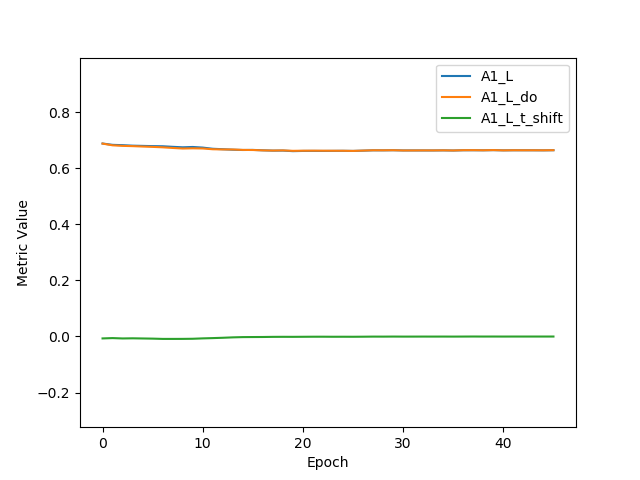
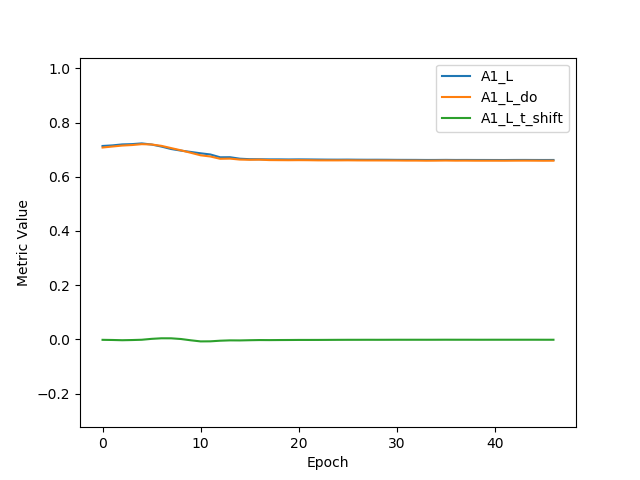
new synth data with non-trivial counterfactuals; different z for each a

diff --git a/src/dataproc/SynthDatasetCreator.py b/src/dataproc/SynthDatasetCreator.py
@@ -1,7 +1,7 @@
 
 import numpy as np
 from scipy.stats import norm
-from dataproc.utils import sigmoid, save_tensors, generate_normal_data
+from dataproc.utils import sigmoid, save_tensors, generate_normal_data, generate_bernoulli_data
 from codebase.utils import switch
 
 
@@ -23,6 +23,13 @@ class SynthDatasetCreator(object):
         self.outcome_scale = outcome_scale
 
     def generate_dataset(self):
+        save_dict_f, save_dict_cf = self.generate_factual_and_counterfactual_data()
+        save_dict = {}
+        for k in save_dict_f: save_dict[k] = save_dict_f[k]
+        for k in save_dict_cf: save_dict['{}_unb'.format(k)] = save_dict_cf[k]
+        return save_dict
+
+    def generate_factual_and_counterfactual_data(self):
         #make dataset 0
         x0, a0, z0 = self.generate_factual_data(self.mu0, self.sd0, self.n0, self.xdim, 0)    
         x0_cf, a0_cf, z0_cf = self.generate_counterfactual_data(x0, a0, z0, self.mu0, self.sd0, self.mu1, self.sd1)
@@ -36,10 +43,7 @@ class SynthDatasetCreator(object):
         #save data
         save_dict_f = {k: np.concatenate([dat0[k], dat1[k]], axis=0) for k in dat0}
         save_dict_cf = {k: np.concatenate([dat0_cf[k], dat1_cf[k]], axis=0) for k in dat0_cf}
-        save_dict = {}
-        for k in save_dict_f: save_dict[k] = save_dict_f[k]
-        for k in save_dict_cf: save_dict['{}_unb'.format(k)] = save_dict_cf[k]
-        return save_dict
+        return save_dict_f, save_dict_cf
 
     def generate_factual_data(self, mu, sd, n, xdim, a_value):
         pass
@@ -145,7 +149,7 @@ class ConfoundedTreatmentBasicSynthDatasetCreator(BasicSynthDatasetCreator):
         return t_obs, t_obs_cf, t_obs_prob
 
 
-class HiddenOffsetOutcomeSynthDatasetCreator(BasicSynthDatasetCreator):
+class ConfoundedSynthDatasetCreator(ConfoundedTreatmentBasicSynthDatasetCreator):
 
     def __init__(self, seed, offset, **kwargs): 
         self.offset = offset
@@ -168,4 +172,89 @@ class HiddenOffsetOutcomeSynthDatasetCreator(BasicSynthDatasetCreator):
         y0_prob = switch(a0_y0_prob, a1_y0_prob, a)
         y1_prob = switch(a0_y1_prob, a1_y1_prob, a)
         return y0, y1, y0_prob, y1_prob 
+
+class HiddenConfounderSynthDatasetCreator(BasicSynthDatasetCreator):
+
+    def __init__(self, seed, zdim, zp, **kwargs): 
+        self.zdim = zdim
+        self.zp = zp
+        super().__init__(seed, **kwargs)
+
+    def generate_factual_data(self, mu, sd, n, xdim, a_value):
+        a = np.full((n, 1), a_value)
+        z = generate_bernoulli_data(self.zp, n, self.zdim)
+        x = generate_normal_data(z + mu, sd, n, self.xdim)
+        print(x.shape, a.shape, z.shape)
+        return x, a, z
+
+    def generate_counterfactual_data(self, x, a, z, mu, sd, mu_cf, sd_cf):
+        x_base = (x - mu - z) / sd
+        x_cf = (x_base * sd_cf) + mu_cf + z
+        a_cf = 1 - a
+        z_cf = z
+        return x_cf, a_cf, z_cf
+
+    def choose_observed_treatment(self, x, a, z):
+        # A = 0 treatment
+        a0_t_obs_prob = np.expand_dims(sigmoid(np.mean(x + z, axis=1) / self.outcome_scale), 1) 
+        a0_t_obs = np.random.binomial(1, a0_t_obs_prob)
+        a0_t_obs_cf = 1 - a0_t_obs 
+        # A = 1 treatment
+        a1_t_obs_prob = np.expand_dims(sigmoid(np.mean(x - z, axis=1) / self.outcome_scale), 1) 
+        a1_t_obs = np.random.binomial(1, a1_t_obs_prob)
+        a1_t_obs_cf = 1 - a1_t_obs 
+        #combine outcomes by A
+        t_obs = switch(a0_t_obs, a1_t_obs, a)
+        t_obs_prob = switch(a0_t_obs_prob, a1_t_obs_prob, a)
+        t_obs_cf = switch(a0_t_obs_cf, a1_t_obs_cf, a)
+        return t_obs, t_obs_cf, t_obs_prob
+
+    def generate_outcomes(self, x, a, z):
+        #A = 0 outcomes
+        a0_y0_prob = np.expand_dims(sigmoid(np.mean(x + z, axis=1) / self.outcome_scale), 1)
+        a0_y1_prob = np.expand_dims(sigmoid(-np.mean(x - z, axis=1) / self.outcome_scale), 1)
+        a0_y0 = np.random.binomial(1, a0_y0_prob)
+        a0_y1 = np.random.binomial(1, a0_y1_prob)
+        #A = 1 outcomes
+        a1_y0_prob = np.expand_dims(sigmoid(np.mean(x - z, axis=1) / self.outcome_scale), 1)
+        a1_y1_prob = np.expand_dims(sigmoid(-np.mean(x + z, axis=1) / self.outcome_scale), 1)
+        a1_y0 = np.random.binomial(1, a1_y0_prob)
+        a1_y1 = np.random.binomial(1, a1_y1_prob)
+        #combine outcomes by A
+        y0 = switch(a0_y0, a1_y0, a)
+        y1 = switch(a0_y1, a1_y1, a)
+        y0_prob = switch(a0_y0_prob, a1_y0_prob, a)
+        y1_prob = switch(a0_y1_prob, a1_y1_prob, a)
+        return y0, y1, y0_prob, y1_prob 
+
+
+class CorrAZSynthDatasetCreator(HiddenConfounderSynthDatasetCreator):
+
+    def __init__(self, seed, beta_lo, beta_hi, **kwargs): 
+        self.beta_lo = beta_lo
+        self.beta_hi = beta_hi
+        super().__init__(seed, **kwargs)
+
+    def generate_factual_and_counterfactual_data(self):
+        #everything the same, but then select observed A at the end
+        #make dataset
+        x0, a0, z0 = self.generate_factual_data(self.mu0, self.sd0, self.num_data, self.xdim, 0)    
+        x0_cf, a0_cf, z0_cf = self.generate_counterfactual_data(x0, a0, z0, self.mu0, self.sd0, self.mu1, self.sd1)
+        dat0 = self.get_treatment_outcome_data(x0, a0, z0) 
+        dat0_cf = self.get_treatment_outcome_data(x0_cf, a0_cf, z0_cf) 
+        #select observed sensitive attribute as a function of Z
+        observed_a = self.choose_observed_sensitive_attribute(z0)
+        #save data
+        save_dict_f = {k: switch(dat0[k], dat0_cf[k], observed_a) for k in dat0}
+        save_dict_cf = {k: switch(dat0[k], dat0_cf[k], 1 - observed_a) for k in dat0}
+        return save_dict_f, save_dict_cf
+
+    def choose_observed_sensitive_attribute(self, z):
+        zval = np.expand_dims(np.mean(z, axis=1) > 0.5, 1)
+        alpha = self.beta_lo * (1 - zval) + self.beta_hi * zval
+        beta = self.beta_hi * (1 - zval) + self.beta_lo * zval
+        bern_p = np.random.beta(alpha, beta)
+        cutoff = np.percentile(bern_p, self.p0 * 100)
+        observed_a = bern_p > cutoff
+        return observed_a.astype(float)
 

diff --git a/src/get_basic_dataset_stats.py b/src/get_basic_dataset_stats.py
@@ -18,7 +18,7 @@ datadir = dirs['data']
 npzfilename = data_kwargs['npzfile']
 
 dat = Dataset(args['dataset'], npzfilename) 
-tensor_names = ['y_f', 'y_cf', 't_f', 'y0', 'y1']
+tensor_names = ['y_f', 'y_cf', 't_f', 'y0', 'y1', 'z']
 for tnm in tensor_names:
     res = np.mean(dat.tensors[tnm]['train'])
     print('Avg {}: {:.3f}'.format(tnm, res))

diff --git a/src/dataproc/utils.py b/src/dataproc/utils.py
@@ -20,3 +20,6 @@ def sigmoid(x):
 def generate_normal_data(mu, sd, n, xdim):
     return np.random.normal(mu, sd, size=(n, xdim))
 
+def generate_bernoulli_data(p, n, dim):
+    return np.random.binomial(1, p, size=(n, dim))
+
